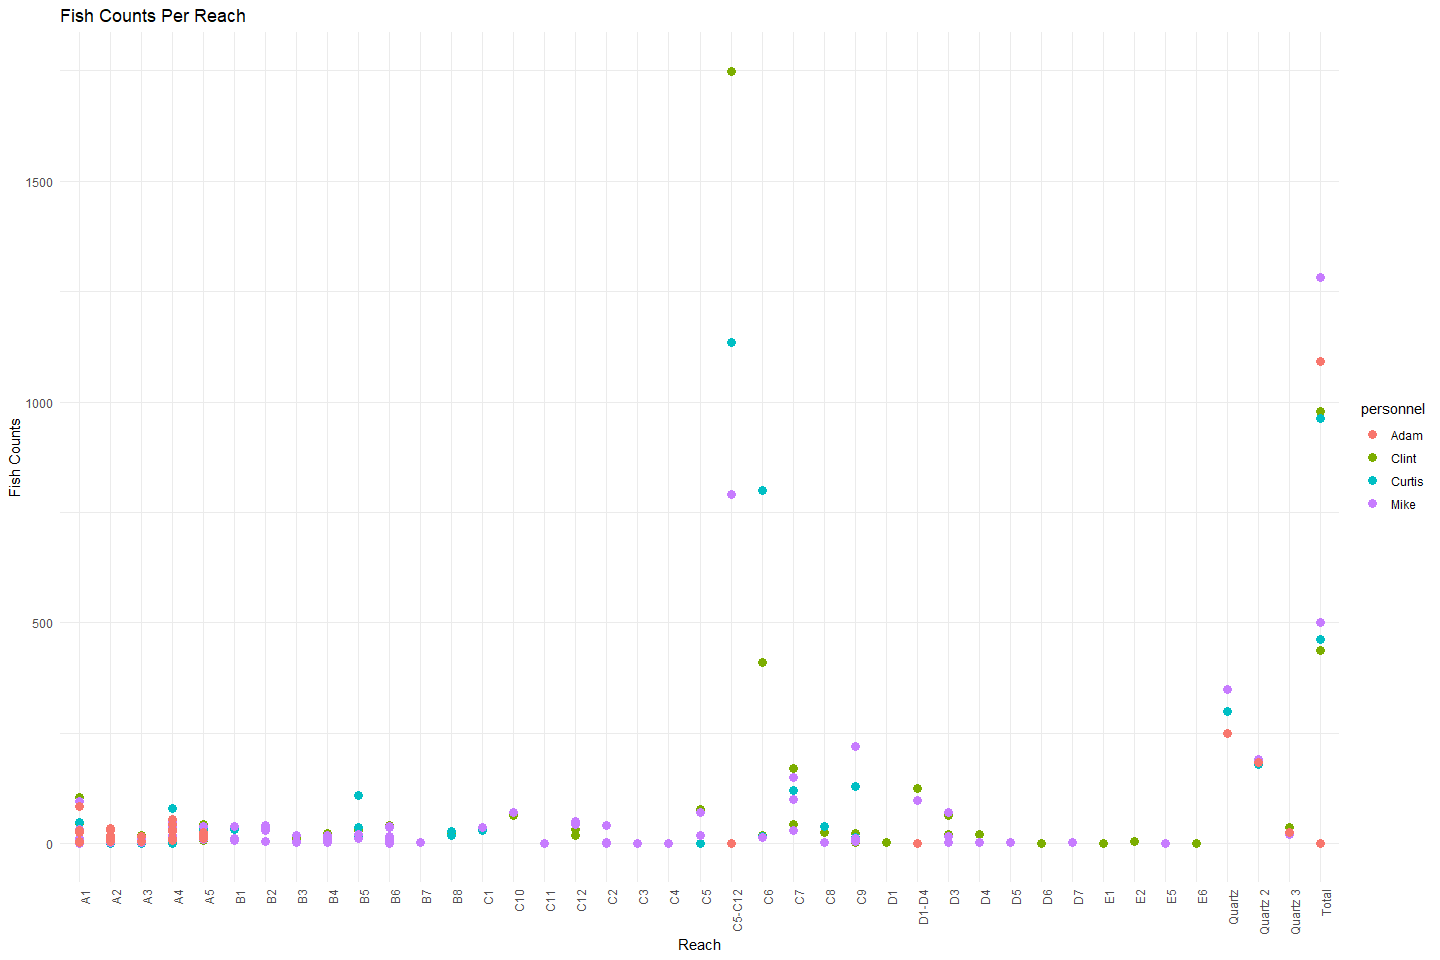
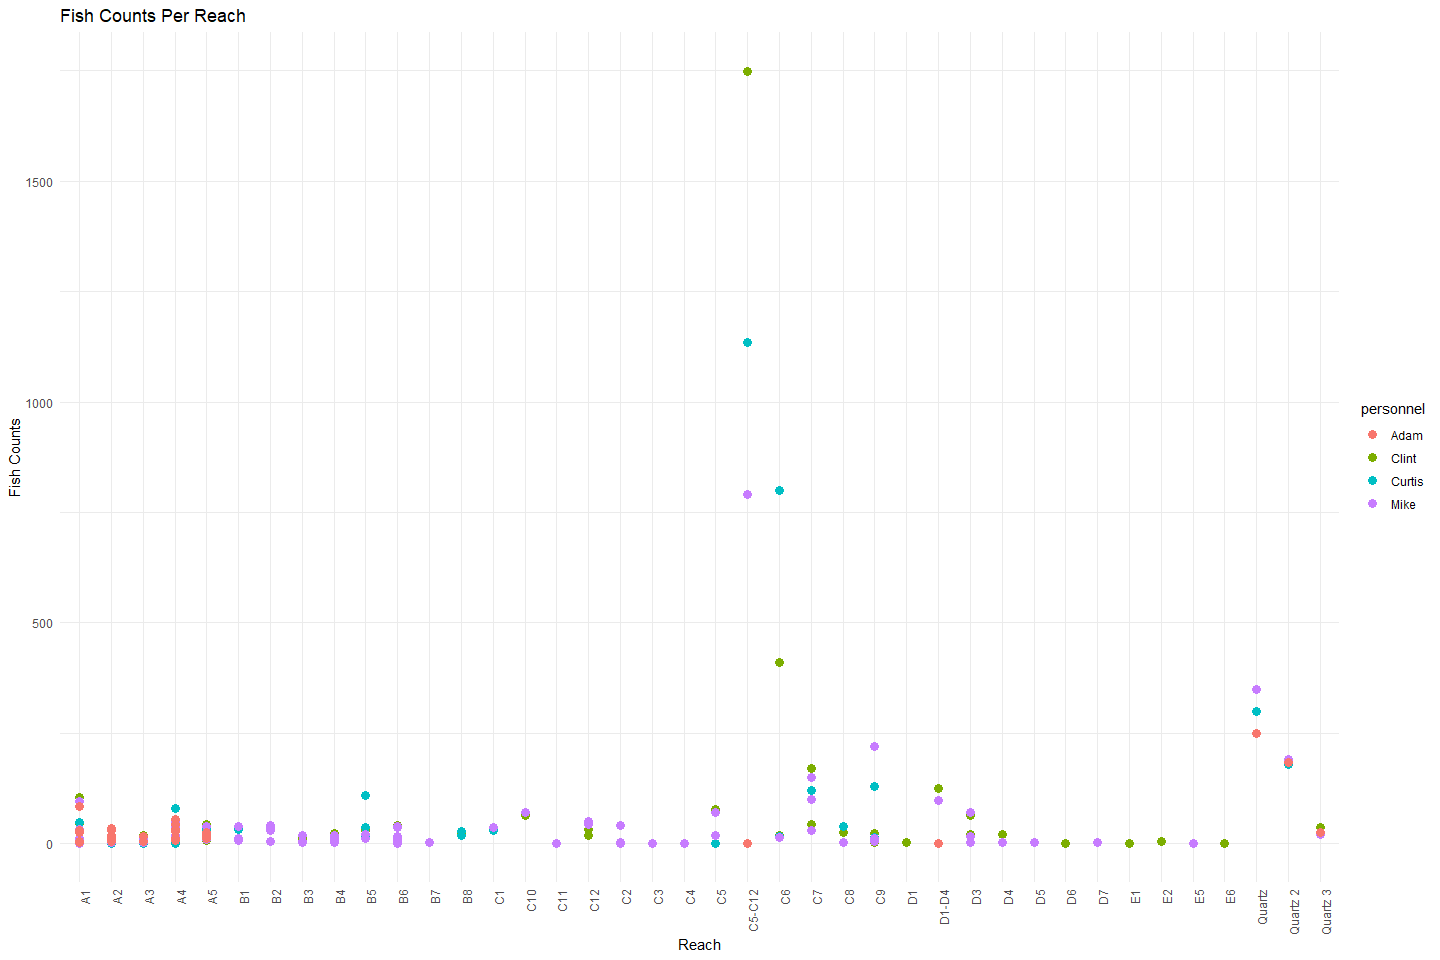
Creates script for 2005 butte snorkel data and edits scripts for earlier years to remove reach total

diff --git a/scripts/adult-holding-redd-and-carcass-surveys/butte-creek/butte-creek-snorkel-survey-2005.md b/scripts/adult-holding-redd-and-carcass-surveys/butte-creek/butte-creek-snorkel-survey-2005.md
@@ -1,16 +1,16 @@
-Butte Creek Snorkel Survey 2003 QC
+Butte Creek Snorkel Survey 2005 QC
 ================
 Erin Cain
 9/29/2021
 
-# Butte Creek Adult Snorkel Survey: 2003 Holding Data
+# Butte Creek Adult Snorkel Survey: 2005 Holding Data
 
 ## Description of Monitoring Data
 
 Butte Creek snorkel holding data was shared by Claire Bryant. This data
 was shared in multi tab spreadsheets.
 
-**Timeframe:** 2003
+**Timeframe:** 2005
 
 **Snorkel Season:** Snorkel Survey is conducted in July or August
 
@@ -35,9 +35,9 @@ gcs_global_bucket(bucket = Sys.getenv("GCS_DEFAULT_BUCKET"))
 
 gcs_list_objects()
 # git data and save as xlsx
-gcs_get_object(object_name = "adult-holding-redd-and-carcass-surveys/butte-creek/data-raw/Butte 2003 Snorkel modified FNL 8-29-03.xls",
+gcs_get_object(object_name = "adult-holding-redd-and-carcass-surveys/butte-creek/data-raw/Butte 2005 Snorkel Modified.xls",
                bucket = gcs_get_global_bucket(),
-               saveToDisk = "ButteSnorkel2003.xls",
+               saveToDisk = "ButteSnorkel2005.xls",
                overwrite = TRUE)
 ```
 
@@ -48,21 +48,13 @@ and used. Currently each sheet describes snorkeling for a different
 site.
 
 ``` r
-butte_snorkel <- readxl::read_excel("ButteSnorkel2003.xls") %>% View()
+butte_snorkel <- readxl::read_excel("ButteSnorkel2005.xls") %>% View()
 ```
-
-    ## New names:
-    ## * `` -> ...1
-    ## * `` -> ...2
-    ## * `` -> ...3
-    ## * `` -> ...5
-    ## * `` -> ...6
-    ## * ...
 
 ## Create function that transforms each sheet
 
 ``` r
-file_names = c("ButteSnorkel2003.xls", "ButteSnorkel2003.xls", "ButteSnorkel2003.xls")
+file_names = c("ButteSnorkel2005.xls", "ButteSnorkel2005.xls", "ButteSnorkel2005.xls")
 sheet_names = c(2, 3, 4)
 tidy_up_snorkel_data <- function(file_name, sheet_name){
   metadata <- readxl::read_excel(file_name, sheet = sheet_name, range = "A3:J7")
@@ -70,20 +62,20 @@ tidy_up_snorkel_data <- function(file_name, sheet_name){
   if (sheet_name == 2){
   raw_data <- readxl::read_excel(file_name, sheet = sheet_name, range = "A14:M70", 
                                  col_names = c("Reach", "Clint Number", "Clint Condition",
+                                               "Tracy Number", "Tracy Condition",
                                                "Curtis Number", "Curtis Condition",
-                                               "Mike Number", "Mike Condition",
-                                               "Adam Number", "Adam Condition", 
+                                               "Sam Number", "Sam Condition", 
                                                "Avg", "Low", "High", "Comments"))
   } else {
    raw_data <- readxl::read_excel(file_name, sheet = sheet_name, range = "A13:M70", 
                                  col_names = c("Reach", "Clint Number", "Clint Condition",
+                                               "Tracy Number", "Tracy Condition",
                                                "Curtis Number", "Curtis Condition",
-                                               "Mike Number", "Mike Condition",
-                                               "Adam Number", "Adam Condition", 
-                                               "Avg", "Low", "High", "Comments")) 
+                                               "Sam Number", "Sam Condition", 
+                                               "Avg", "Low", "High", "Comments"))
   }
   combined_data <- tibble()
-  names <- c("Clint", "Curtis", "Mike", "Adam")
+  names <- c("Clint", "Tracy", "Curtis", "Sam")
   for (i in 1:length(names)) {
     print(i)
     print(names[i])
@@ -96,7 +88,7 @@ tidy_up_snorkel_data <- function(file_name, sheet_name){
   }
   
   transformed_data <- combined_data %>%
-    filter(reach != "TOTAL", reach != "Total", reach != "TOTALS", reach != "RANGE", reach != "Range") %>%
+    filter(reach != "TOTAL", reach != "TOTALS", reach != "Total", reach != "total", reach != "RANGE", reach != "Range") %>%
     mutate(why_fish_count_na = case_when(why_fish_count_na == "NGC" ~ "not a good count",
                                 why_fish_count_na == "DNS" ~ "did not see", 
                                 why_fish_count_na == "DNSw"| why_fish_count_na == "DNSW" ~ "did not swim",
@@ -121,11 +113,11 @@ cleaner_data <- bind_rows(purrr::map2(file_names, sheet_names, tidy_up_snorkel_d
     ## [1] 1
     ## [1] "Clint"
     ## [1] 2
-    ## [1] "Curtis"
+    ## [1] "Tracy"
     ## [1] 3
-    ## [1] "Mike"
+    ## [1] "Curtis"
     ## [1] 4
-    ## [1] "Adam"
+    ## [1] "Sam"
 
     ## New names:
     ## * `` -> ...1
@@ -138,11 +130,11 @@ cleaner_data <- bind_rows(purrr::map2(file_names, sheet_names, tidy_up_snorkel_d
     ## [1] 1
     ## [1] "Clint"
     ## [1] 2
-    ## [1] "Curtis"
+    ## [1] "Tracy"
     ## [1] 3
-    ## [1] "Mike"
+    ## [1] "Curtis"
     ## [1] 4
-    ## [1] "Adam"
+    ## [1] "Sam"
 
     ## New names:
     ## * `` -> ...1
@@ -155,18 +147,18 @@ cleaner_data <- bind_rows(purrr::map2(file_names, sheet_names, tidy_up_snorkel_d
     ## [1] 1
     ## [1] "Clint"
     ## [1] 2
-    ## [1] "Curtis"
+    ## [1] "Tracy"
     ## [1] 3
-    ## [1] "Mike"
+    ## [1] "Curtis"
     ## [1] 4
-    ## [1] "Adam"
-    ## Rows: 560
+    ## [1] "Sam"
+    ## Rows: 436
     ## Columns: 5
-    ## $ date              <date> 2003-08-18, 2003-08-18, 2003-08-18, 2003-08-18, 200~
+    ## $ date              <date> 2005-07-26, 2005-07-26, 2005-07-26, 2005-07-26, 200~
     ## $ reach             <chr> "Quartz", "Quartz 2", "Quartz 3", "A1", "A1", "A1", ~
     ## $ personnel         <chr> "Clint", "Clint", "Clint", "Clint", "Clint", "Clint"~
-    ## $ fish_count        <dbl> 250, NA, 37, 46, NA, 27, NA, NA, NA, 105, 5, NA, 30,~
-    ## $ why_fish_count_na <chr> NA, "not a good count", NA, NA, "did not swim", NA, ~
+    ## $ fish_count        <dbl> 850, 275, 300, 42, 20, NA, 18, 4, 25, 5, NA, 52, NA,~
+    ## $ why_fish_count_na <chr> NA, NA, NA, NA, NA, "did not see", NA, NA, NA, NA, N~
 
 ## Explore Date
 
@@ -176,7 +168,7 @@ Survey completed in 3 days in August.
 unique(cleaner_data$date)
 ```
 
-    ## [1] "2003-08-18" "2003-08-19" "2003-08-20"
+    ## [1] "2005-07-26" "2005-07-27" "2005-07-28"
 
 ## Explore Numeric Variables:
 
@@ -194,13 +186,13 @@ cleaner_data %>%
 ``` r
 cleaner_data %>% 
   ggplot(aes(x = reach, y = fish_count, color = personnel)) + 
-  geom_point(size = 3) + 
+  geom_point(size = 3, alpha = .5) + 
   theme_minimal() + 
   labs(x = "Reach", y = "Fish Counts", title = "Fish Counts Per Reach") +
   theme(axis.text.x=element_text(angle=90, hjust=1))
 ```
 
-![](butte-creek-snorkel-survey-2003_files/figure-gfm/unnamed-chunk-6-1.png)<!-- -->
+![](butte-creek-snorkel-survey-2005_files/figure-gfm/unnamed-chunk-6-1.png)<!-- -->
 
 **Numeric Summary of fish\_count over Period of Record**
 
@@ -209,11 +201,11 @@ summary(cleaner_data$fish_count)
 ```
 
     ##    Min. 1st Qu.  Median    Mean 3rd Qu.    Max.    NA's 
-    ##     0.0     4.0    15.0    45.2    32.0  1749.0     261
+    ##     1.0    15.0    55.0   132.0   162.5  1500.0     169
 
 **NA and Unknown Values**
 
--   46.6 % of values in the `fish_count` column are NA.
+-   38.8 % of values in the `fish_count` column are NA.
 
 ## Explore Categorical variables:
 
@@ -235,15 +227,15 @@ table(cleaner_data$reach)
 
     ## 
     ##       A1       A2       A3       A4       A5       B1       B2       B3 
-    ##       28       60       24       52       32       12       16       28 
+    ##       16       40       24       28       24       12        8        4 
     ##       B4       B5       B6       B7       B8       C1      C10      C11 
-    ##       28       12       56       12        8        4        4        8 
-    ##      C12       C2       C3       C4       C5   C5-C12       C6       C7 
-    ##       12       12        4        4       12        4       16       16 
-    ##       C8       C9       D1    D1-D4       D3       D4       D5       D6 
-    ##       12       16        4        4       12        8        4        4 
-    ##       D7       E1       E2       E5       E6   Quartz Quartz 2 Quartz 3 
-    ##        4        4        4        4        4        4        4        4
+    ##       16       16       12       12        4        4        4       20 
+    ##      C12       C2       C3       C4       C6       C7       C8       C9 
+    ##       12       12        4        4       16       16       20       20 
+    ##       D1       D2       D3       D4       D5       D6       D7       D8 
+    ##        8        8       12        4        4        8        8        4 
+    ##       E1       E5       E6       E7   Quartz Quartz 2 Quartz 3 
+    ##        8        4        4        4        4        4        4
 
 They do not appear to do the same number of snorkels in each reach.
 
@@ -258,8 +250,8 @@ table(cleaner_data$personnel)
 ```
 
     ## 
-    ##   Adam  Clint Curtis   Mike 
-    ##    140    140    140    140
+    ##  Clint Curtis    Sam  Tracy 
+    ##    109    109    109    109
 
 **NA and Unknown Values**
 
@@ -273,11 +265,11 @@ table(cleaner_data$why_fish_count_na)
 
     ## 
     ##      did not see     did not swim not a good count 
-    ##               57               38               42
+    ##               16               21               29
 
 **NA and Unknown Values**
 
--   75.5 % of values in the `why_fish_count_na` column are NA.
+-   84.9 % of values in the `why_fish_count_na` column are NA.
 
 ## Summary of identified issues
 
@@ -288,21 +280,21 @@ table(cleaner_data$why_fish_count_na)
 ## Save cleaned data back to google cloud
 
 ``` r
-butte_holding_2003 <- cleaner_data %>% glimpse
+butte_holding_2005 <- cleaner_data %>% glimpse
 ```
 
-    ## Rows: 560
+    ## Rows: 436
     ## Columns: 5
-    ## $ date              <date> 2003-08-18, 2003-08-18, 2003-08-18, 2003-08-18, 200~
+    ## $ date              <date> 2005-07-26, 2005-07-26, 2005-07-26, 2005-07-26, 200~
     ## $ reach             <chr> "Quartz", "Quartz 2", "Quartz 3", "A1", "A1", "A1", ~
     ## $ personnel         <chr> "Clint", "Clint", "Clint", "Clint", "Clint", "Clint"~
-    ## $ fish_count        <dbl> 250, NA, 37, 46, NA, 27, NA, NA, NA, 105, 5, NA, 30,~
-    ## $ why_fish_count_na <chr> NA, "not a good count", NA, NA, "did not swim", NA, ~
+    ## $ fish_count        <dbl> 850, 275, 300, 42, 20, NA, 18, 4, 25, 5, NA, 52, NA,~
+    ## $ why_fish_count_na <chr> NA, NA, NA, NA, NA, "did not see", NA, NA, NA, NA, N~
 
 ``` r
 f <- function(input, output) write_csv(input, file = output)
-gcs_upload(butte_holding_2003,
+gcs_upload(butte_holding_2005,
            object_function = f,
            type = "csv",
-           name = "adult-holding-redd-and-carcass-surveys/butte-creek/data/butte_holding_2003.csv")
+           name = "adult-holding-redd-and-carcass-surveys/butte-creek/data/butte_holding_2005.csv")
 ```

diff --git a/scripts/adult-holding-redd-and-carcass-surveys/butte-creek/butte-creek-snorkel-survey-2004.md b/scripts/adult-holding-redd-and-carcass-surveys/butte-creek/butte-creek-snorkel-survey-2004.md
@@ -90,7 +90,8 @@ tidy_up_snorkel_data <- function(file_name, sheet_name){
   }
   
   transformed_data <- combined_data %>%
-    filter(reach != "TOTAL", reach != "TOTALS", reach != "RANGE", reach != "Range") %>%
+    filter(reach != "TOTAL", reach != "TOTALS", reach != "RANGE", reach != "Range", 
+           reach != "total", reach != "Total", reach != "Reach") %>%
     mutate(why_fish_count_na = case_when(why_fish_count_na == "NGC" ~ "not a good count",
                                 why_fish_count_na == "DNS" ~ "did not see", 
                                 why_fish_count_na == "DNSw"| why_fish_count_na == "DNSW" ~ "did not swim",
@@ -148,12 +149,12 @@ cleaner_data <- bind_rows(purrr::map2(file_names, sheet_names, tidy_up_snorkel_d
     ## [1] "Curtis"
     ## [1] 3
     ## [1] "Mike"
-    ## Rows: 375
+    ## Rows: 363
     ## Columns: 5
     ## $ date              <date> 2004-07-12, 2004-07-12, 2004-07-12, 2004-07-12, 200~
-    ## $ reach             <chr> "Reach", "Quartz", "Quartz 2", "Quartz 3", "A1", "A1~
+    ## $ reach             <chr> "Quartz", "Quartz 2", "Quartz 3", "A1", "A1", "A2", ~
     ## $ personnel         <chr> "Clint", "Clint", "Clint", "Clint", "Clint", "Clint"~
-    ## $ fish_count        <dbl> NA, 180, 300, 250, 85, 16, 2, 130, 15, 6, 2, 1, 1, 5~
+    ## $ fish_count        <dbl> 180, 300, 250, 85, 16, 2, 130, 15, 6, 2, 1, 1, 5, 31~
     ## $ why_fish_count_na <chr> NA, NA, NA, NA, NA, NA, NA, NA, NA, NA, NA, NA, NA, ~
 
 ## Explore Date
@@ -197,11 +198,11 @@ summary(cleaner_data$fish_count)
 ```
 
     ##    Min. 1st Qu.  Median    Mean 3rd Qu.    Max.    NA's 
-    ##     1.0     8.5    40.0   150.1   130.0  3059.0     116
+    ##    1.00    8.00   39.00   77.76  120.00  850.00     113
 
 **NA and Unknown Values**
 
--   30.9 % of values in the `fish_count` column are NA.
+-   31.1 % of values in the `fish_count` column are NA.
 
 ## Explore Categorical variables:
 
@@ -230,8 +231,8 @@ table(cleaner_data$reach)
     ##       12       12        3        6        9       12       12       12 
     ##       D1       D2       D3       D4       D5       D6       D7       D8 
     ##        3        6        9        6        3        3        6        3 
-    ##       E1       E7   Quartz Quartz 2 Quartz 3    Reach    total    Total 
-    ##        6        3        3        3        3        3        3        6
+    ##       E1       E7   Quartz Quartz 2 Quartz 3 
+    ##        6        3        3        3        3
 
 They do not appear to do the same number of snorkels in each reach.
 
@@ -247,7 +248,7 @@ table(cleaner_data$personnel)
 
     ## 
     ##  Clint Curtis   Mike 
-    ##    125    125    125
+    ##    121    121    121
 
 **NA and Unknown Values**
 
@@ -265,7 +266,7 @@ table(cleaner_data$why_fish_count_na)
 
 **NA and Unknown Values**
 
--   86.1 % of values in the `why_fish_count_na` column are NA.
+-   85.7 % of values in the `why_fish_count_na` column are NA.
 
 ## Summary of identified issues
 
@@ -279,12 +280,12 @@ table(cleaner_data$why_fish_count_na)
 butte_holding_2004 <- cleaner_data %>% glimpse
 ```
 
-    ## Rows: 375
+    ## Rows: 363
     ## Columns: 5
     ## $ date              <date> 2004-07-12, 2004-07-12, 2004-07-12, 2004-07-12, 200~
-    ## $ reach             <chr> "Reach", "Quartz", "Quartz 2", "Quartz 3", "A1", "A1~
+    ## $ reach             <chr> "Quartz", "Quartz 2", "Quartz 3", "A1", "A1", "A2", ~
     ## $ personnel         <chr> "Clint", "Clint", "Clint", "Clint", "Clint", "Clint"~
-    ## $ fish_count        <dbl> NA, 180, 300, 250, 85, 16, 2, 130, 15, 6, 2, 1, 1, 5~
+    ## $ fish_count        <dbl> 180, 300, 250, 85, 16, 2, 130, 15, 6, 2, 1, 1, 5, 31~
     ## $ why_fish_count_na <chr> NA, NA, NA, NA, NA, NA, NA, NA, NA, NA, NA, NA, NA, ~
 
 ``` r
